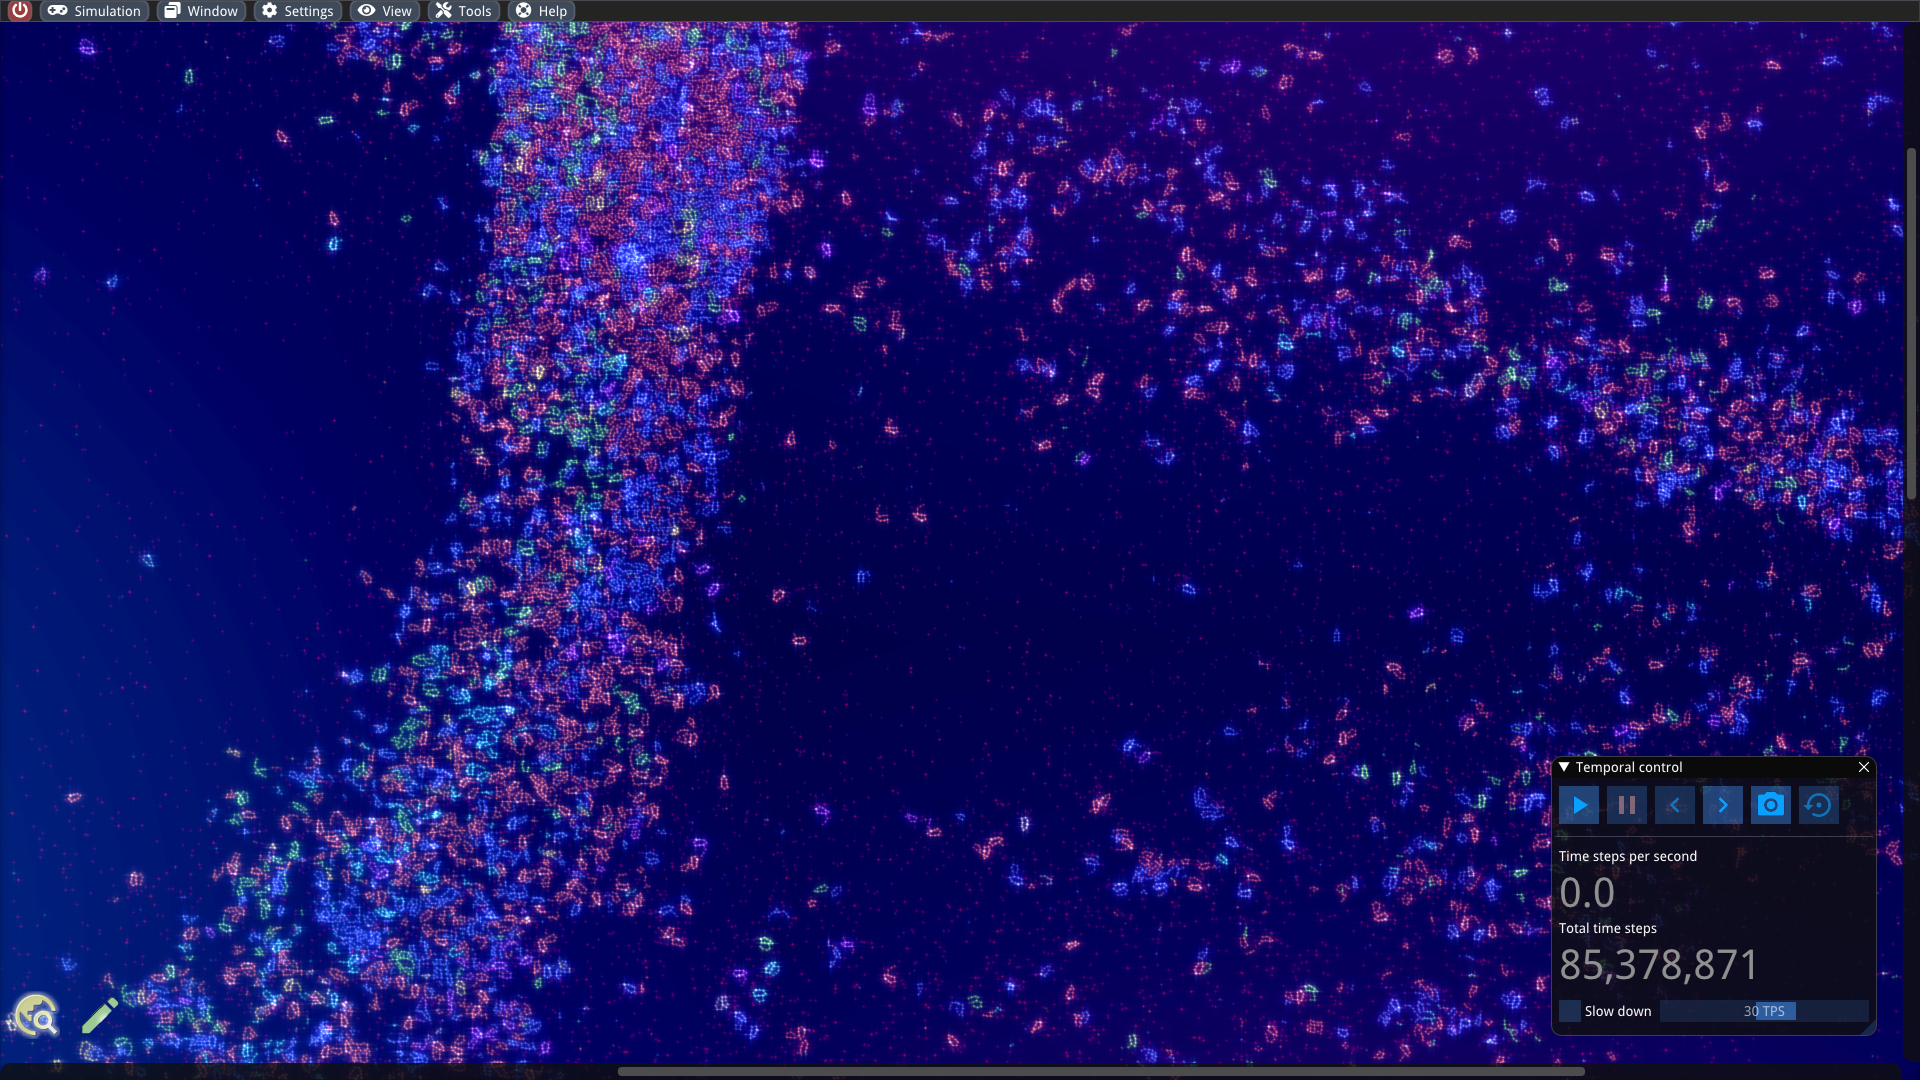
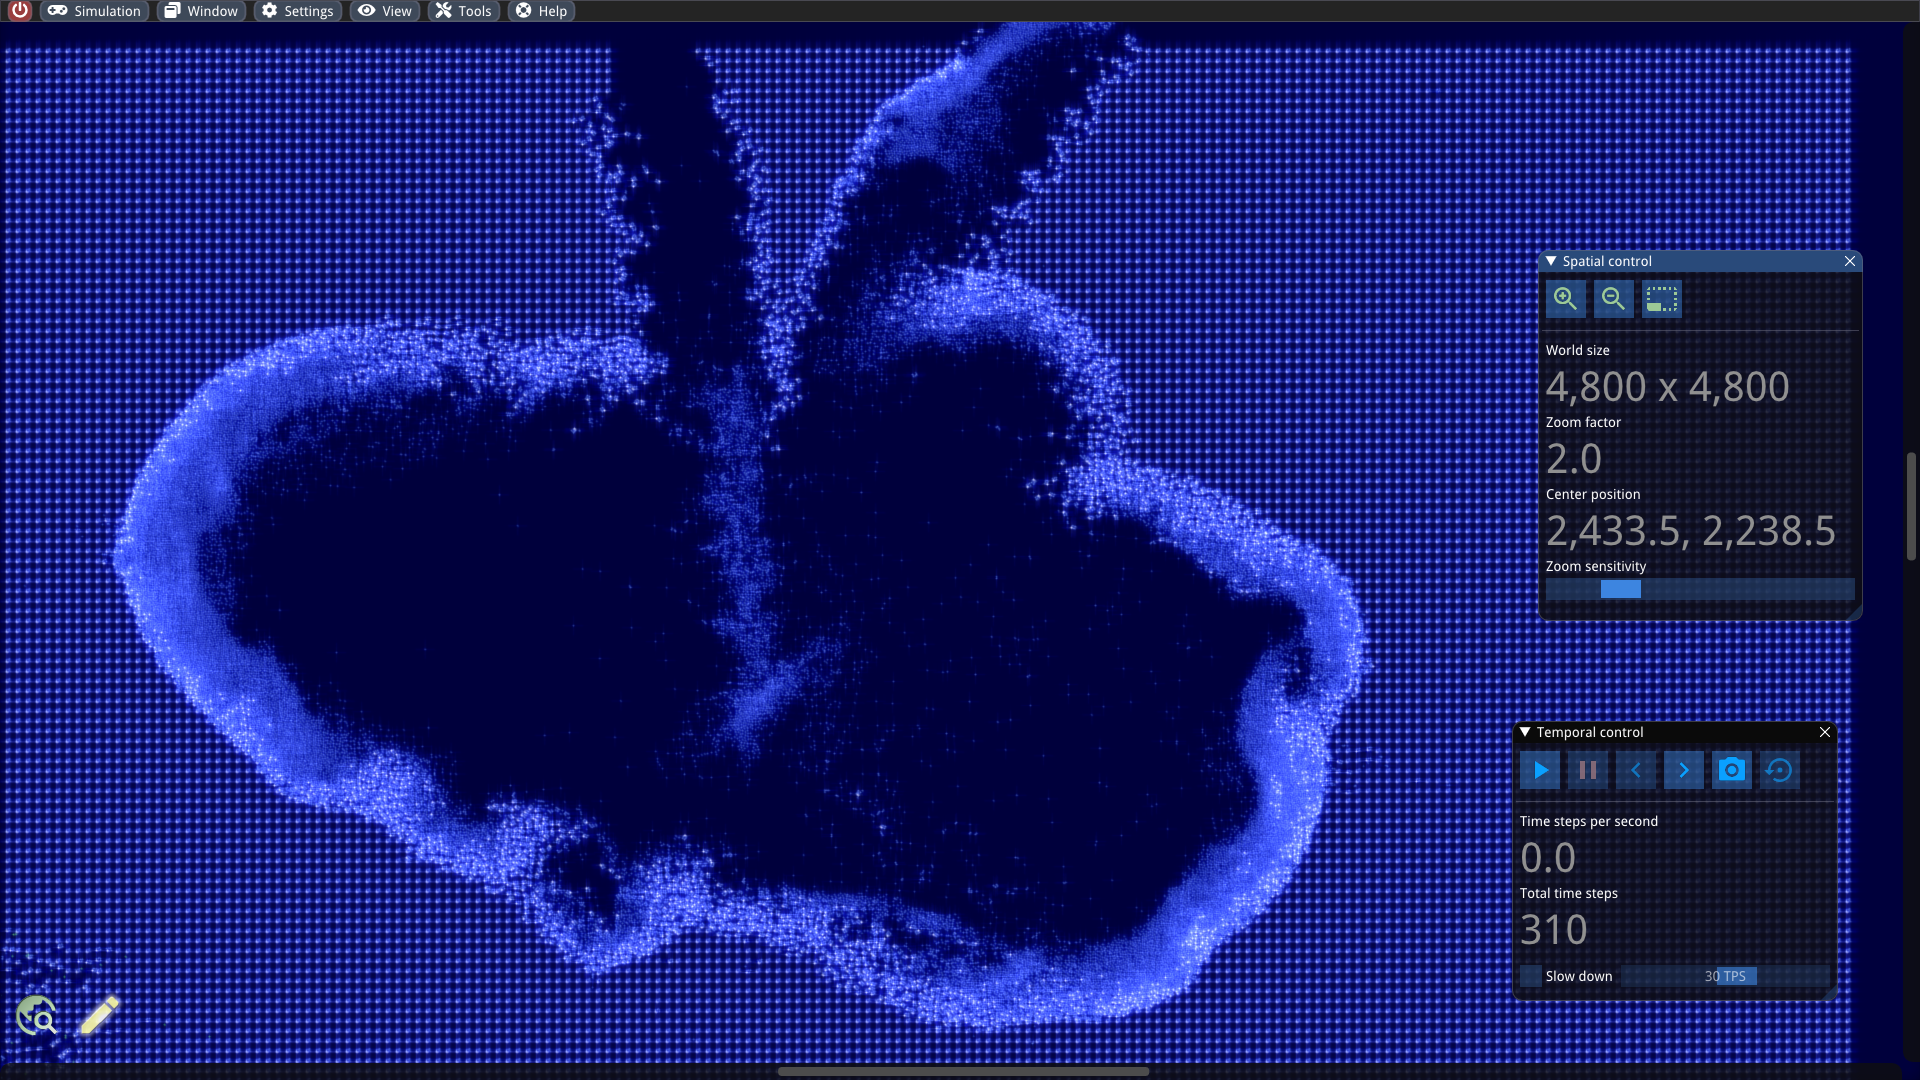
screenshot for statistics

diff --git a/README.md b/README.md
@@ -55,23 +55,24 @@ Please visit [alien-project.org](https://alien-project.org/documentation.html) f
 
 #### Evolving self-replicating machines in action
 <h1 align="center">
-<img src="img/screenshot3.png" width=100%>
+<img src="img/screenshot2.png" width=100%>
 </h1>
 
 #### Explosion inside a large grid of robots
 <h1 align="center">
-<img src="img/screenshot5.png" width=100%>
+<img src="img/screenshot3.png" width=100%>
 </h1>
 
-#### Graph structure of the bodies
+#### Statistics tools
 <h1 align="center">
-<img src="img/screenshot7.png" width=100%>
+<img src="img/screenshot4.png" width=100%>
 </h1>
 
 #### Visual editor and scripting environment
 <h1 align="center">
-<img src="img/screenshot8.png" width=100%>
+<img src="img/screenshot5.png" width=100%>
 </h1>
+(under development, screenshot is from previous version)
 
 ## How to build the sources
 To build alien you need Microsoft Visual Studio 2019. You find the solution file in msvc/alien/alien.sln.
